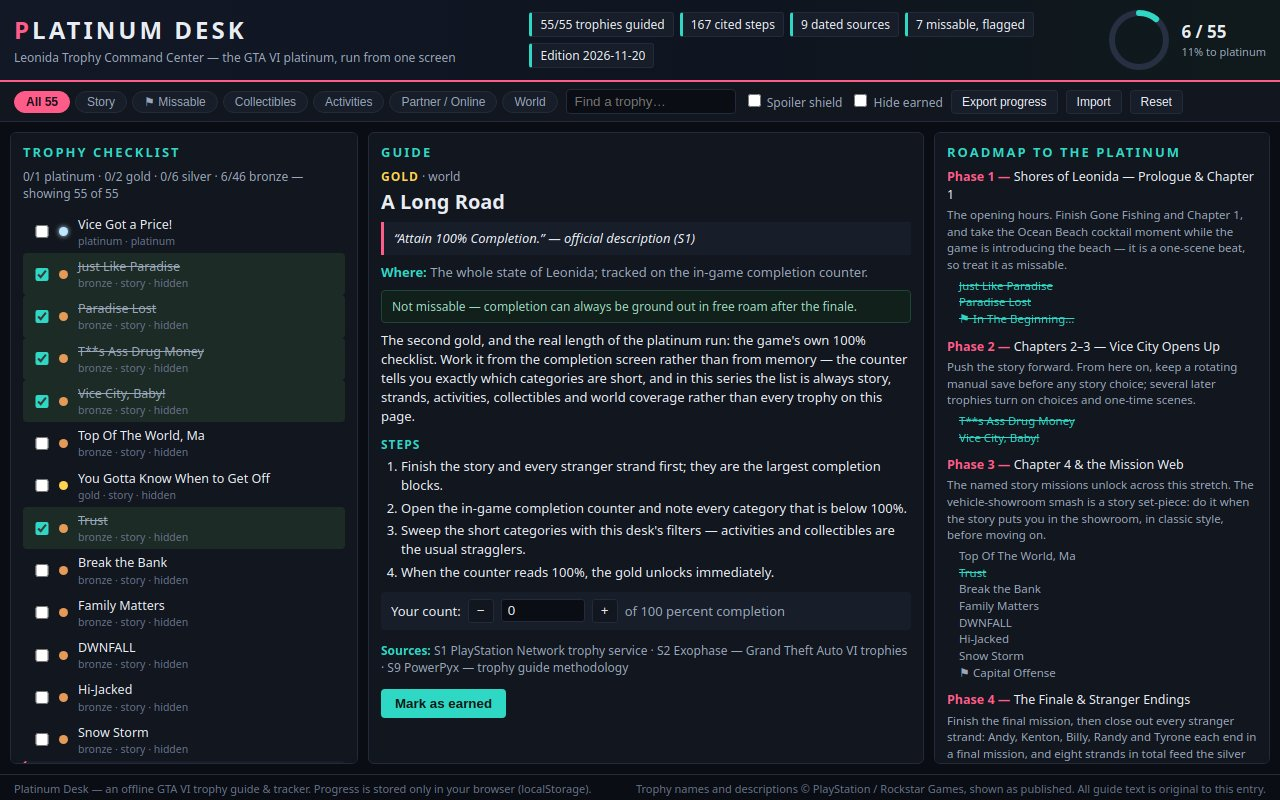
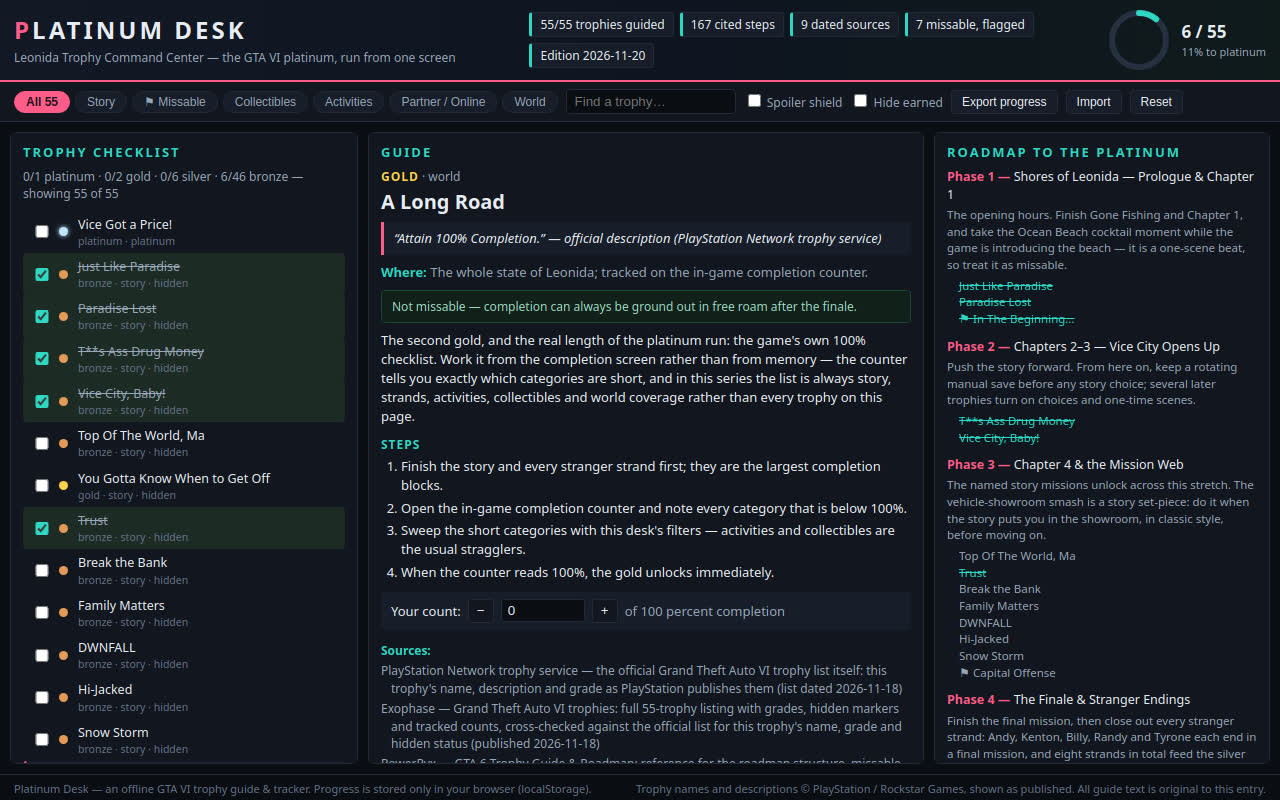
Platinum Desk v2: full per-trophy source citations

diff --git a/app/app.js b/app/app.js
@@ -54,10 +54,6 @@ function setCount(trophy, value) {
   saveProgress();
 }
 
-function sourceById(id) {
-  return desk.data.sources.find((s) => s.id === id);
-}
-
 function isSpoilerHidden(trophy) {
   return desk.spoiler && trophy.kind === 'story' && !isEarned(trophy.id);
 }
@@ -158,8 +154,9 @@ function renderAuditStrip() {
   document.getElementById('audit-detail').textContent =
     'Audit: ' + desk.data.trophies.length + ' of 55 trophies carry a full guide (' +
     steps + ' steps, ' + citations + ' source citations). Guides are original to this entry; ' +
-    'names and descriptions are the official list, as published by PlayStation (S1) and mirrored ' +
-    'by Exophase (S2) and PSNProfiles (S3) on 2026-11-18.';
+    'names and descriptions are the official list, as published by PlayStation and mirrored ' +
+    'by Exophase and PSNProfiles on 2026-11-18. Every citation under a guide is written out ' +
+    'in full — source, what it supports, and its date — so it can be checked on its own.';
 }
 
 /* ---------------- guide panel (centre column) ---------------- */
@@ -190,7 +187,7 @@ function renderGuide() {
   nameEl.textContent = displayName(trophy);
   nameEl.className = hiddenSpoiler ? 'spoiler-blur' : '';
   const officialEl = document.getElementById('guide-official');
-  officialEl.textContent = '“' + trophy.description + '” — official description (S1)';
+  officialEl.textContent = '“' + trophy.description + '” — official description (PlayStation Network trophy service)';
   officialEl.className = hiddenSpoiler ? 'spoiler-blur' : '';
 
   document.getElementById('guide-where').textContent = trophy.where;
@@ -218,9 +215,14 @@ function renderGuide() {
     counter.hidden = true;
   }
 
-  document.getElementById('guide-sources').textContent = trophy.sources
-    .map((id) => { const s = sourceById(id); return id + ' ' + (s ? s.name : ''); })
-    .join(' · ');
+  const sourcesEl = document.getElementById('guide-sources');
+  sourcesEl.textContent = '';
+  for (const citation of trophy.sources) {
+    const line = document.createElement('span');
+    line.className = 'citation';
+    line.textContent = citation;
+    sourcesEl.append(line);
+  }
 
   const earnBtn = document.getElementById('guide-earn-toggle');
   earnBtn.textContent = isEarned(trophy.id) ? 'Earned ✓ (click to undo)' : 'Mark as earned';
@@ -268,6 +270,12 @@ function renderSources() {
     name.className = 'source-name';
     name.textContent = source.id + ' · ' + source.name;
     li.append(name, document.createTextNode(' — ' + source.detail + ' (' + source.date + ')'));
+    if (source.url) {
+      const url = document.createElement('span');
+      url.className = 'source-url';
+      url.textContent = source.url;
+      li.append(document.createElement('br'), url);
+    }
     list.append(li);
   }
 }

diff --git a/app/style.css b/app/style.css
@@ -312,9 +312,11 @@ html, body {
 
 #counter-target { color: var(--ink-dim); }
 
-#guide-sources { color: var(--ink-dim); font-size: 12px; }
+#guide-sources { color: var(--ink-dim); font-size: 12px; line-height: 1.45; overflow-wrap: break-word; }
 
 #guide-sources::before { content: "Sources: "; color: var(--accent-cyan); font-weight: 700; }
+
+#guide-sources .citation { display: block; margin-top: 3px; padding-left: 10px; text-indent: -10px; }
 
 #guide-earn-toggle {
   background: var(--accent-cyan);
@@ -357,6 +359,8 @@ html, body {
 #source-list li { margin-bottom: 5px; }
 
 #source-list .source-name { color: var(--ink); }
+
+#source-list .source-url { color: var(--accent-cyan); font-size: 10.5px; overflow-wrap: anywhere; }
 
 #audit-detail { color: var(--ink-faint); font-size: 11.5px; border-top: 1px solid var(--panel-edge); padding-top: 8px; }
 
